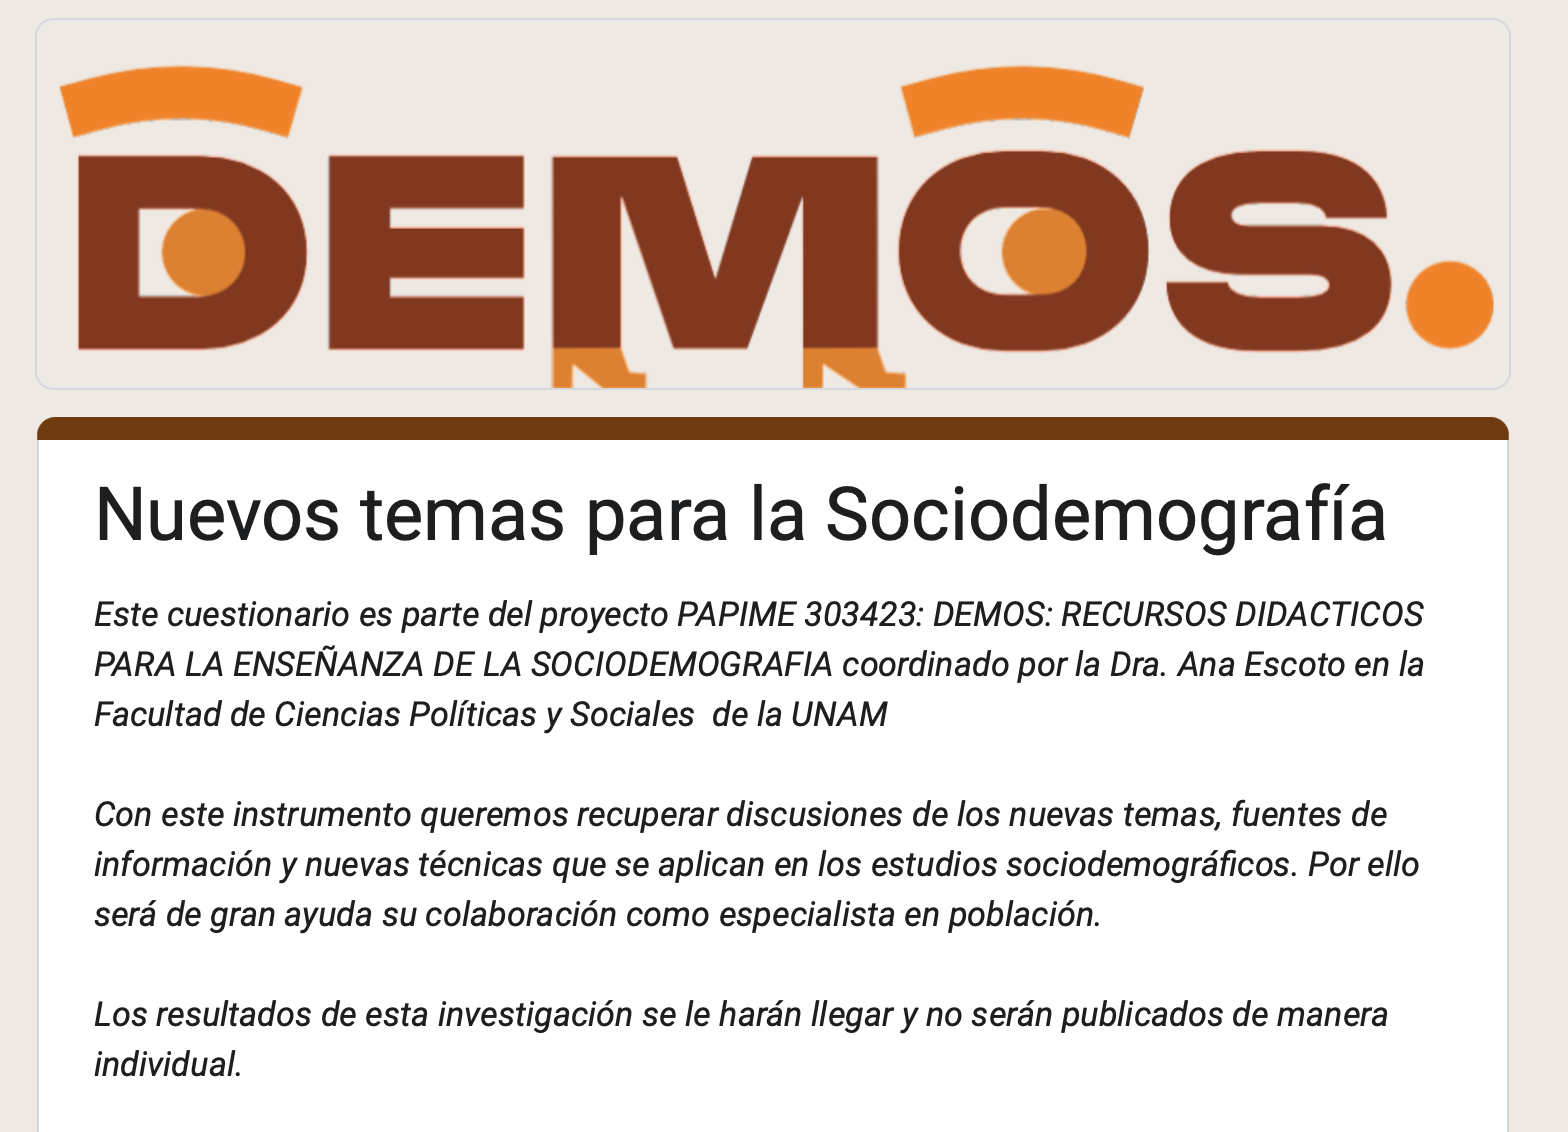
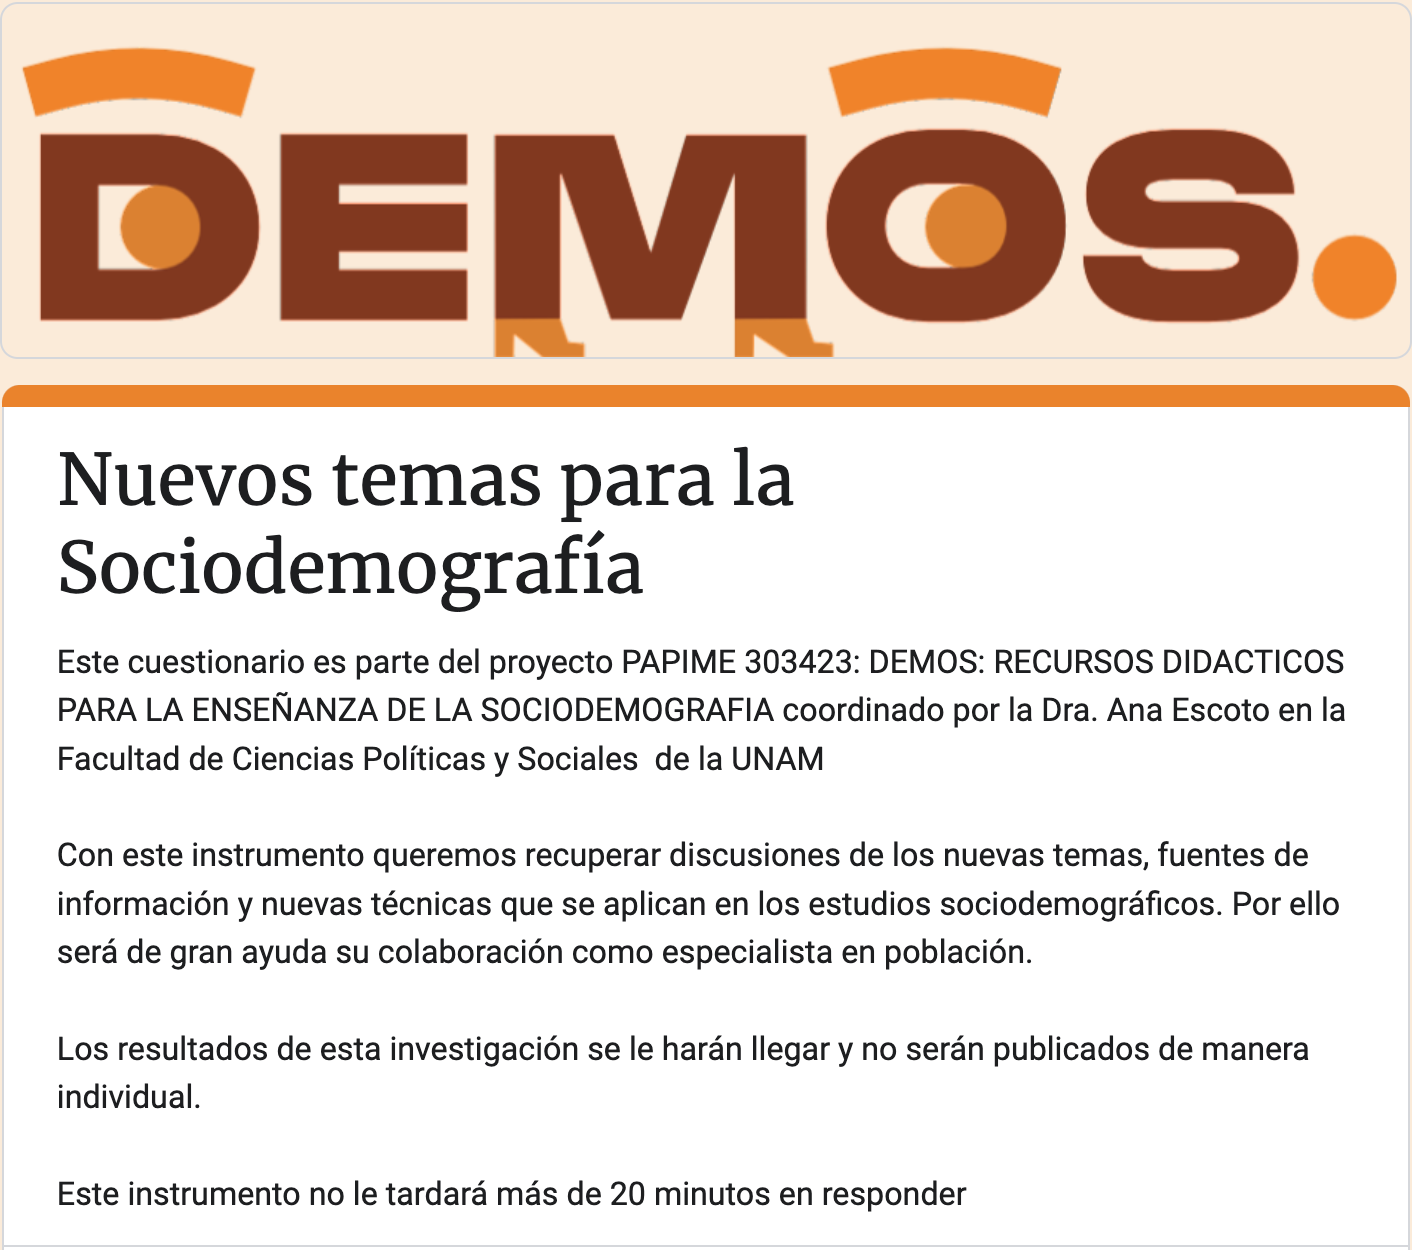
v1

diff --git a/docs/styles.css b/docs/styles.css
@@ -1,4 +1,7 @@
 
+background-color: #FFFCE4;
+
+
 <nav class="navbar navbar-expand-lg navbar-dark bg-primary">
   <div class="container-fluid">
     <a class="navbar-brand" href="#">Navbar</a>

diff --git a/styles.css b/styles.css
@@ -1,4 +1,7 @@
 
+background-color: #FFFCE4;
+
+
 <nav class="navbar navbar-expand-lg navbar-dark bg-primary">
   <div class="container-fluid">
     <a class="navbar-brand" href="#">Navbar</a>
